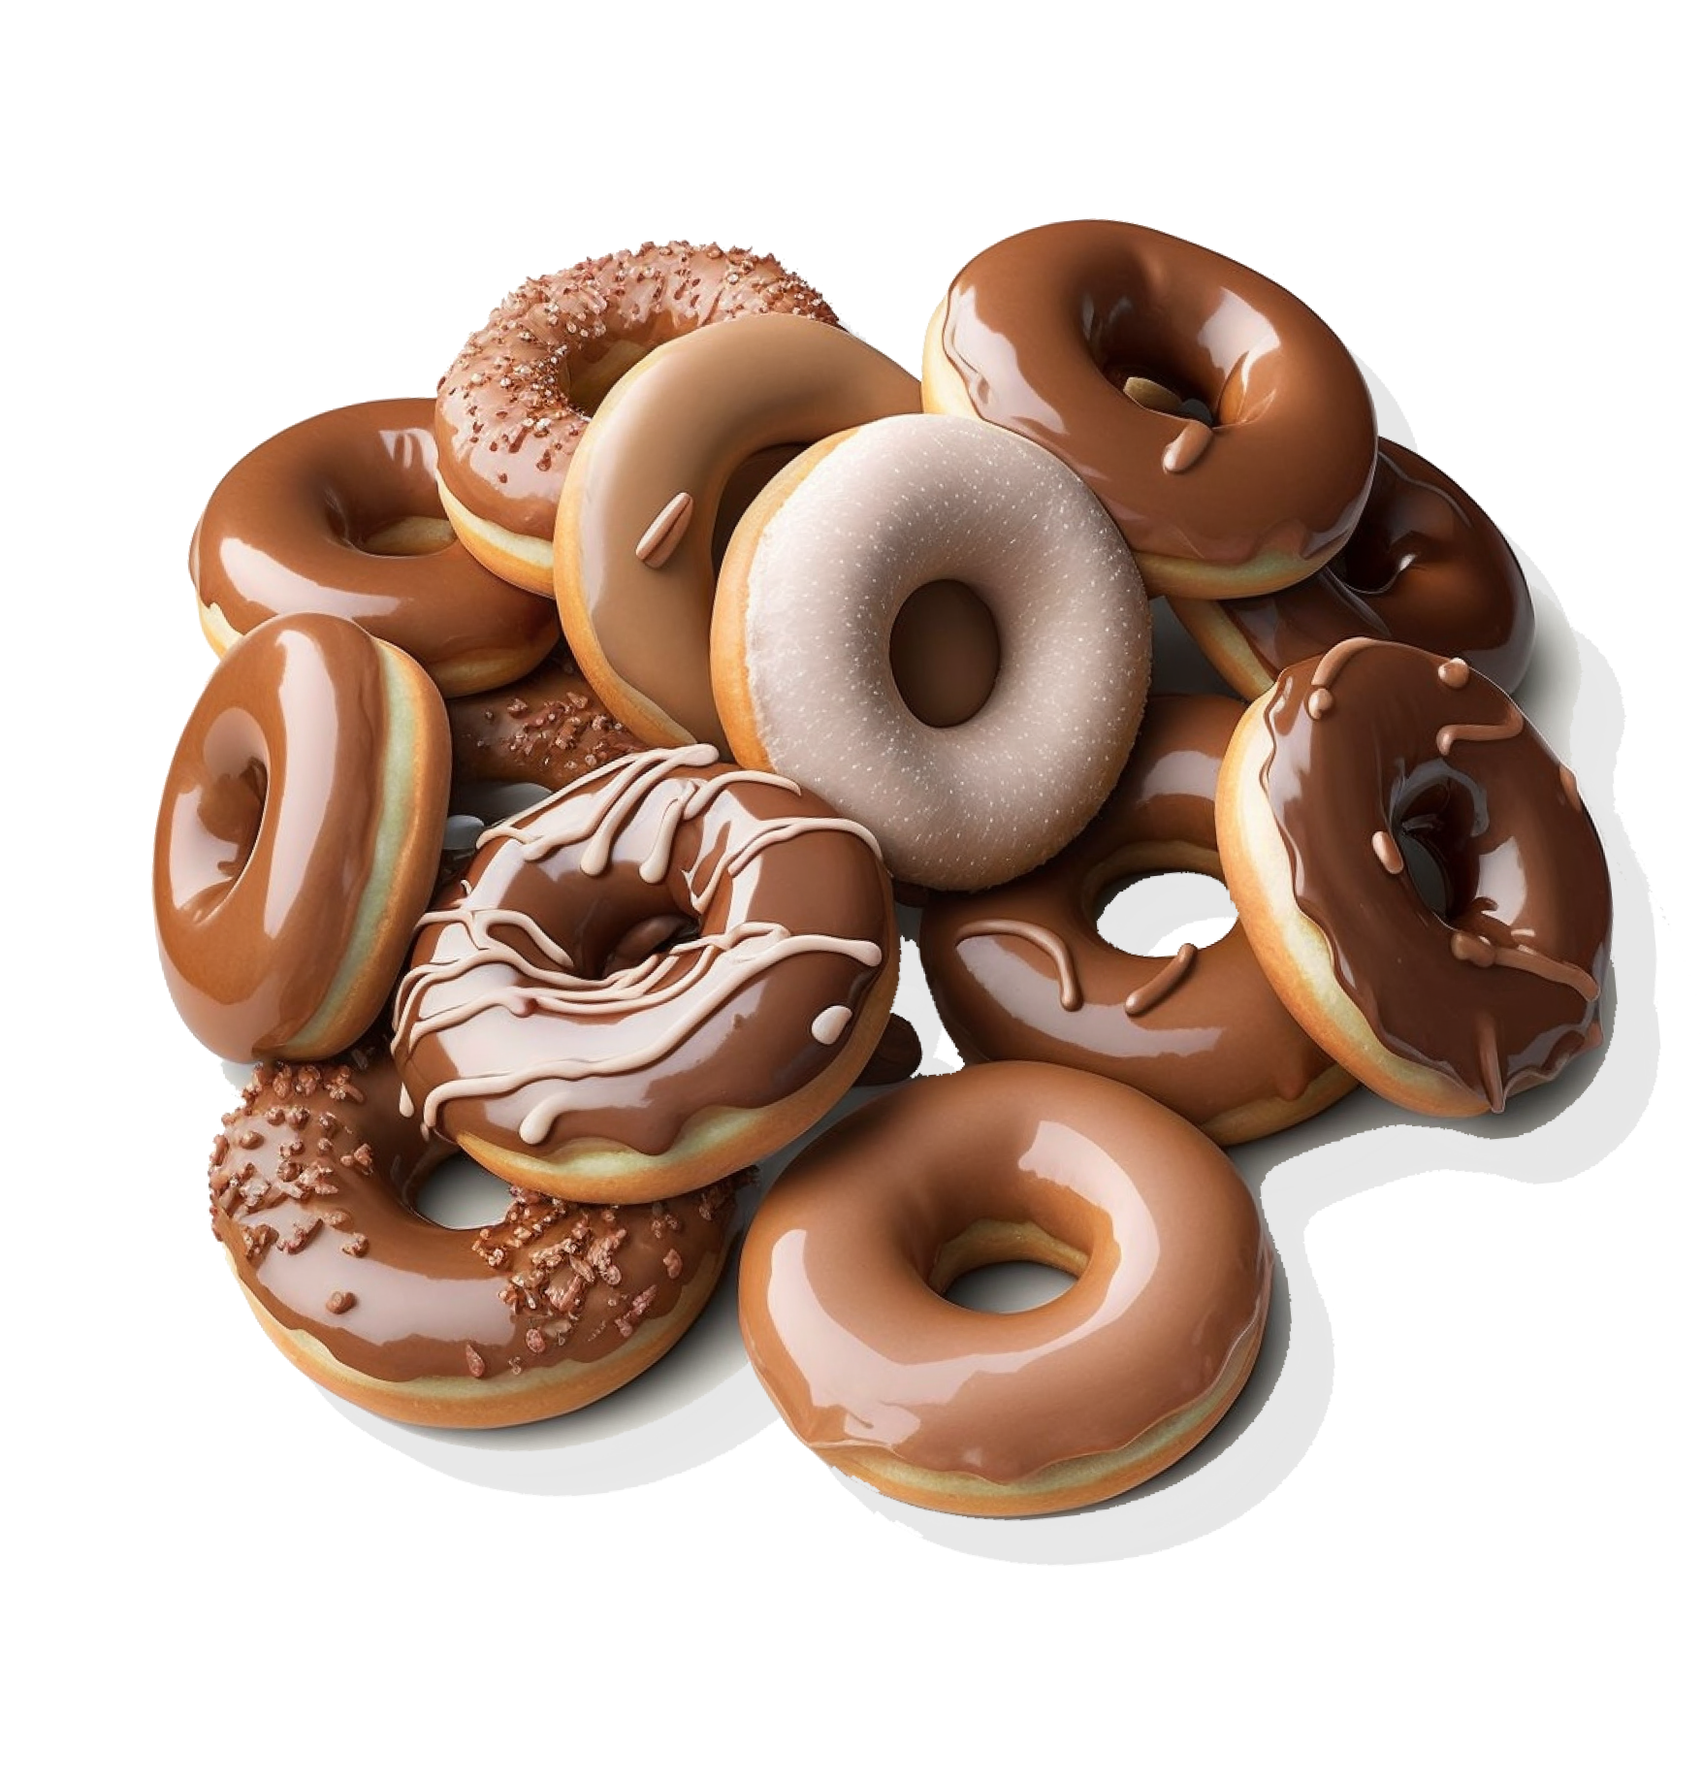
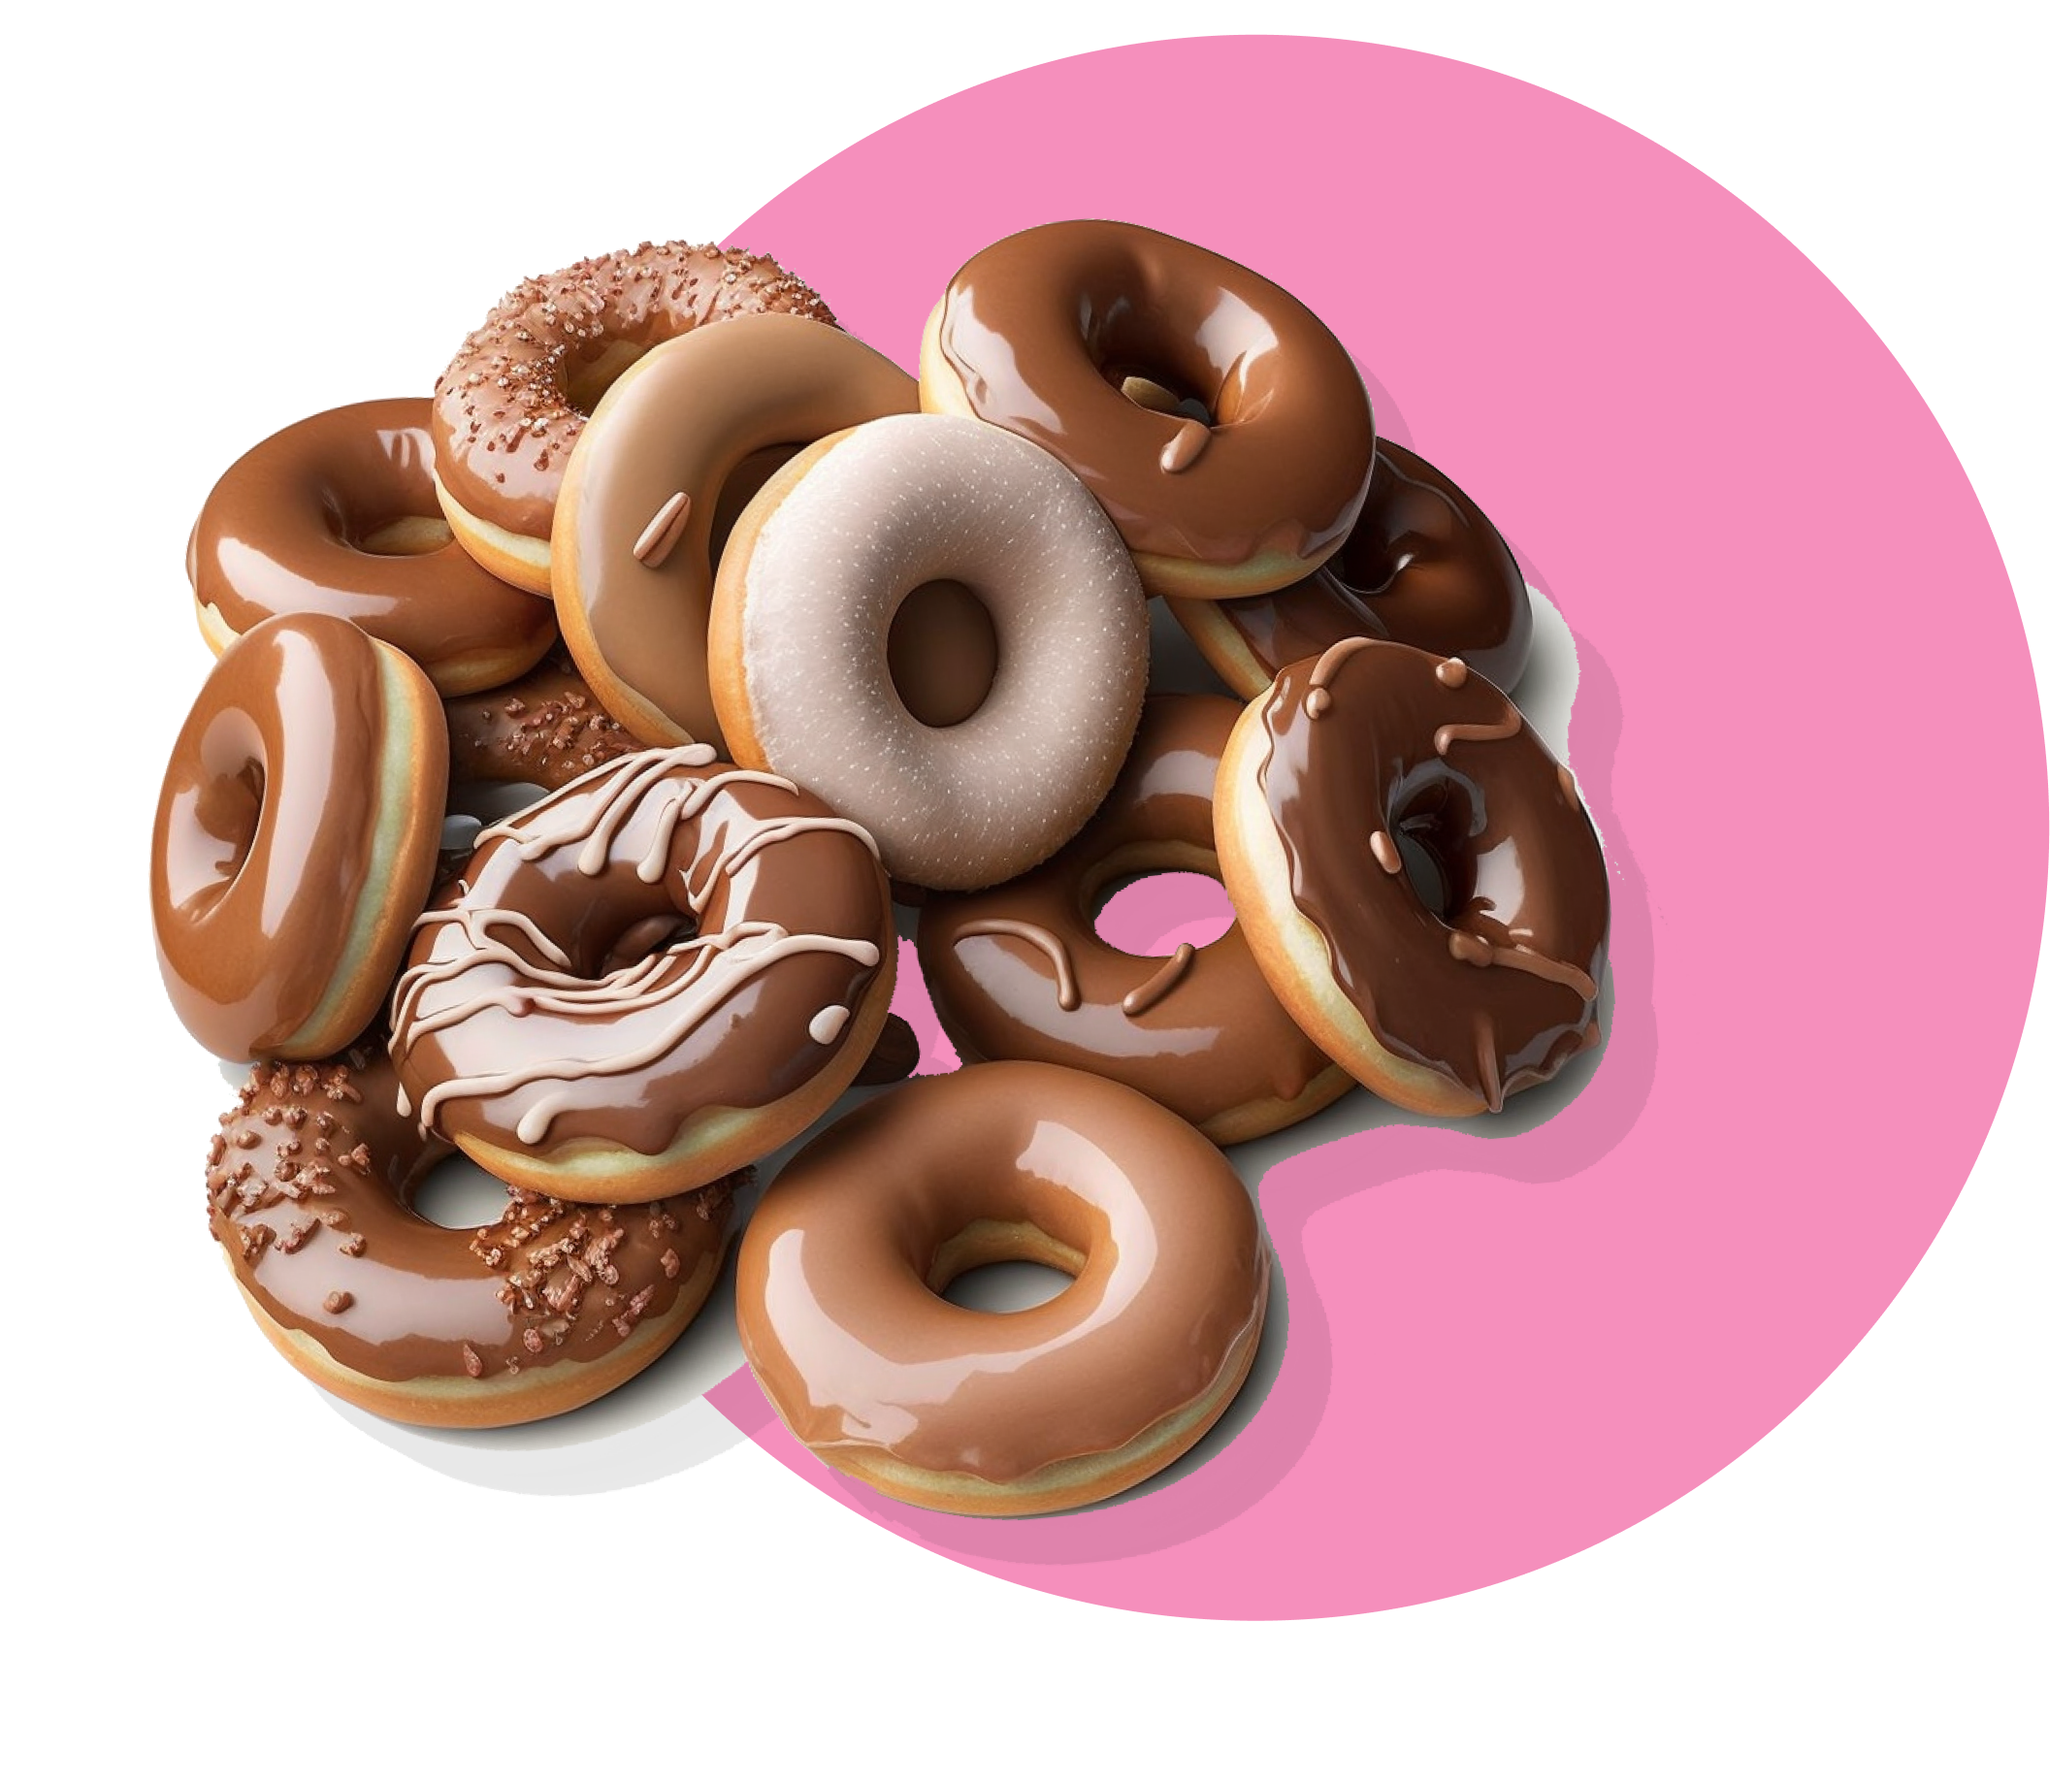
Finished

diff --git a/src/Hero.tsx b/src/Hero.tsx
@@ -1,0 +1,95 @@
+export default function HeroSection() {
+  return (
+    <>
+      <div className="hero">
+        <div className="con">
+          <div className="socials">
+            <a href="" className="social">
+              <svg
+                width="27"
+                height="22"
+                viewBox="0 0 27 22"
+                fill="none"
+                xmlns="http://www.w3.org/2000/svg"
+              >
+                <path
+                  d="M24.6471 2.02954C23.6707 2.69804 22.5896 3.20933 21.4455 3.54373C20.8314 2.8584 20.0153 2.37265 19.1076 2.15219C18.1998 1.93173 17.2442 1.98718 16.37 2.31106C15.4957 2.63493 14.7451 3.2116 14.2195 3.96306C13.694 4.71453 13.4188 5.60453 13.4314 6.51271V7.50237C11.6396 7.54747 9.86406 7.16174 8.263 6.37955C6.66195 5.59735 5.28504 4.44297 4.25491 3.01921C4.25491 3.01921 0.176483 11.9262 9.35295 15.8848C7.2531 17.2683 4.75162 17.962 2.2157 17.8641C11.3922 22.8124 22.6079 17.8641 22.6079 6.48302C22.6069 6.20735 22.5796 5.93237 22.5263 5.6616C23.5669 4.6655 24.3012 3.40786 24.6471 2.02954V2.02954Z"
+                  stroke="white"
+                  stroke-width="2.80392"
+                  stroke-linecap="round"
+                  stroke-linejoin="round"
+                />
+              </svg>
+            </a>
+
+            <a href="" className="social">
+              <svg
+                width="16"
+                height="26"
+                viewBox="0 0 16 26"
+                fill="none"
+                xmlns="http://www.w3.org/2000/svg"
+              >
+                <path
+                  d="M14.0392 1.75165H10.7255C9.26076 1.75165 7.85599 2.34247 6.82025 3.39415C5.78451 4.44582 5.20264 5.8722 5.20264 7.35949V10.7242H1.88892V15.2105H5.20264V24.183H9.62094V15.2105H12.9347L14.0392 10.7242H9.62094V7.35949C9.62094 7.06203 9.73732 6.77676 9.94446 6.56642C10.1516 6.35609 10.4326 6.23792 10.7255 6.23792H14.0392V1.75165Z"
+                  stroke="white"
+                  stroke-width="2.3366"
+                  stroke-linecap="round"
+                  stroke-linejoin="round"
+                />
+              </svg>
+            </a>
+
+            <a href="" className="social">
+              <svg
+                width="26"
+                height="26"
+                viewBox="0 0 26 26"
+                fill="none"
+                xmlns="http://www.w3.org/2000/svg"
+              >
+                <path
+                  d="M18.7843 2.28757H7.73857C4.68837 2.28757 2.2157 4.76024 2.2157 7.81044V18.8562C2.2157 21.9064 4.68837 24.3791 7.73857 24.3791H18.7843C21.8345 24.3791 24.3072 21.9064 24.3072 18.8562V7.81044C24.3072 4.76024 21.8345 2.28757 18.7843 2.28757Z"
+                  stroke="white"
+                  stroke-width="2.80392"
+                  stroke-linecap="round"
+                  stroke-linejoin="round"
+                />
+                <path
+                  d="M17.6797 12.6374C17.8161 13.5567 17.659 14.4956 17.231 15.3205C16.803 16.1454 16.1258 16.8143 15.2957 17.2321C14.4655 17.6499 13.5248 17.7954 12.6073 17.6477C11.6898 17.5001 10.8422 17.0669 10.185 16.4097C9.52789 15.7526 9.09469 14.905 8.94705 13.9875C8.79941 13.0699 8.94484 12.1292 9.36266 11.2991C9.78047 10.469 10.4494 9.79176 11.2743 9.36374C12.0992 8.93572 13.038 8.7787 13.9573 8.91501C14.895 9.05406 15.7631 9.49101 16.4334 10.1613C17.1038 10.8316 17.5407 11.6997 17.6797 12.6374Z"
+                  stroke="white"
+                  stroke-width="2.80392"
+                  stroke-linecap="round"
+                  stroke-linejoin="round"
+                />
+                <path
+                  d="M19.3366 7.25818H19.3484"
+                  stroke="white"
+                  stroke-width="2.80392"
+                  stroke-linecap="round"
+                  stroke-linejoin="round"
+                />
+              </svg>
+            </a>
+          </div>
+          <div className="text">
+            <h4>Looking for Tasty Donuts?</h4>
+            <h1>
+              Try <span>Brand</span> Now
+            </h1>
+            <p>
+              Lorem ipsum dolor sit amet consectetur. Risus at consequat eget
+              ligula quisque vel.
+            </p>
+            <a href="" className="try">
+              Try Now
+            </a>
+          </div>
+        </div>
+        <div className="img">
+          <img src={require("./Donut.png")} alt="" className="donut" />
+        </div>
+      </div>
+    </>
+  );
+}

diff --git a/src/style.css b/src/style.css
@@ -1,0 +1,148 @@
+@import url('https://fonts.googleapis.com/css2?family=Montserrat:ital,wght@0,100;0,200;0,300;0,400;0,500;0,600;0,700;0,800;0,900;1,100;1,200;1,300;1,400;1,500;1,600;1,800;1,900&display=swap');
+
+* {
+      margin: 0;
+      padding: 0;
+      text-decoration: none;
+      font-family: "Montserrat", sans-serif;
+
+      --main: #F58FBC;
+}
+
+body {
+      background: #FFFFFF;
+}
+
+h1,
+h2,
+h3,
+h4,
+h5,
+h6 {
+      font-weight: 600;
+}
+
+.navbar {
+      display: flex;
+      width: 100%;
+      height: 70px;
+      align-items: center;
+      justify-content: space-around;
+      position: fixed;
+}
+
+.logo {
+      color: var(--main);
+      font-size: 1.4rem;
+
+}
+
+.navlinks {
+      display: flex;
+      align-items: center;
+      justify-content: center;
+      gap: 30px;
+      color: white;
+}
+
+.navlink {
+      color: black;
+      font-weight: 500;
+      transition: all 0.3s ease;
+}
+
+.navlink:hover {
+      color: var(--main);
+}
+
+
+.navlink::after {
+      width: 0;
+      content: "";
+      display: block;
+      height: 2.3px;
+      background: var(--main);
+      transition: all 0.3s ease-out;
+
+}
+
+.navlink:hover::after {
+      width: 100%;
+}
+
+.hero {
+      display: flex;
+      align-items: center;
+      justify-content: space-evenly;
+      width: 100%;
+      height: 100vh;
+}
+
+.con {
+      display: flex;
+      align-items: center;
+      justify-content: center;
+      gap: 80px;
+}
+
+.text {
+      width: 500px;
+      font-size: 1.5rem;
+}
+
+.text p {
+      font-size: 1rem;
+}
+
+.try {
+      display: flex;
+      align-items: center;
+      justify-content: center;
+      width: fit-content;
+      height: fit-content;
+      color: white;
+      background: var(--main);
+      padding: 10px 30px;
+      border-radius: 8px;
+      margin-top: 15px;
+      font-weight: 600;
+      font-size: 1.15rem;
+      border: solid var(--main);
+      transition: all 0.5s ease;
+}
+
+.try:hover{
+      box-shadow: inset 150px 0 0 0 white;
+      color: var(--main);      rotate: 360deg;
+}
+
+span {
+      color: var(--main);
+}
+
+.social {
+      display: flex;
+      align-items: center;
+      justify-content: center;
+      width: 50px;
+      aspect-ratio: 1/1;
+      background: var(--main);
+      border-radius: 50%;
+      transition: all 0.3s ease;
+}
+
+.donut{
+      width: 650px;
+}
+
+.socials{
+      display: flex;
+      align-items: center;
+      justify-content: center;
+      flex-direction: column;
+      gap: 20px;
+}
+
+.social:hover{
+      scale: 1.1;
+}

diff --git a/src/Navbar.tsx b/src/Navbar.tsx
@@ -1,0 +1,20 @@
+export default function Navbar() {
+  return (
+    <nav className="navbar">
+      <a href="" className="logo">
+        <h1>Brand</h1>
+      </a>
+      <div className="navlinks">
+        <a href="#" className="navlink">
+          Home
+        </a>
+        <a href="#" className="navlink">
+          About Us
+        </a>
+        <a href="#" className="navlink">
+          Contact
+        </a>
+      </div>
+    </nav>
+  );
+}

diff --git a/src/index.tsx b/src/index.tsx
@@ -1,12 +1,17 @@
 import React from "react";
 import ReactDOM from "react-dom";
+import "./style.css";
+import Navbar from "./Navbar";
+import HeroSection from "./Hero";
 
 
-function App(){
-  return(
+function App() {
+  return (
     <>
-
+      <Navbar />
+      <HeroSection/>
     </>
-  )
+  );
 }
 
+ReactDOM.render(<App />, document.querySelector("#root"));
